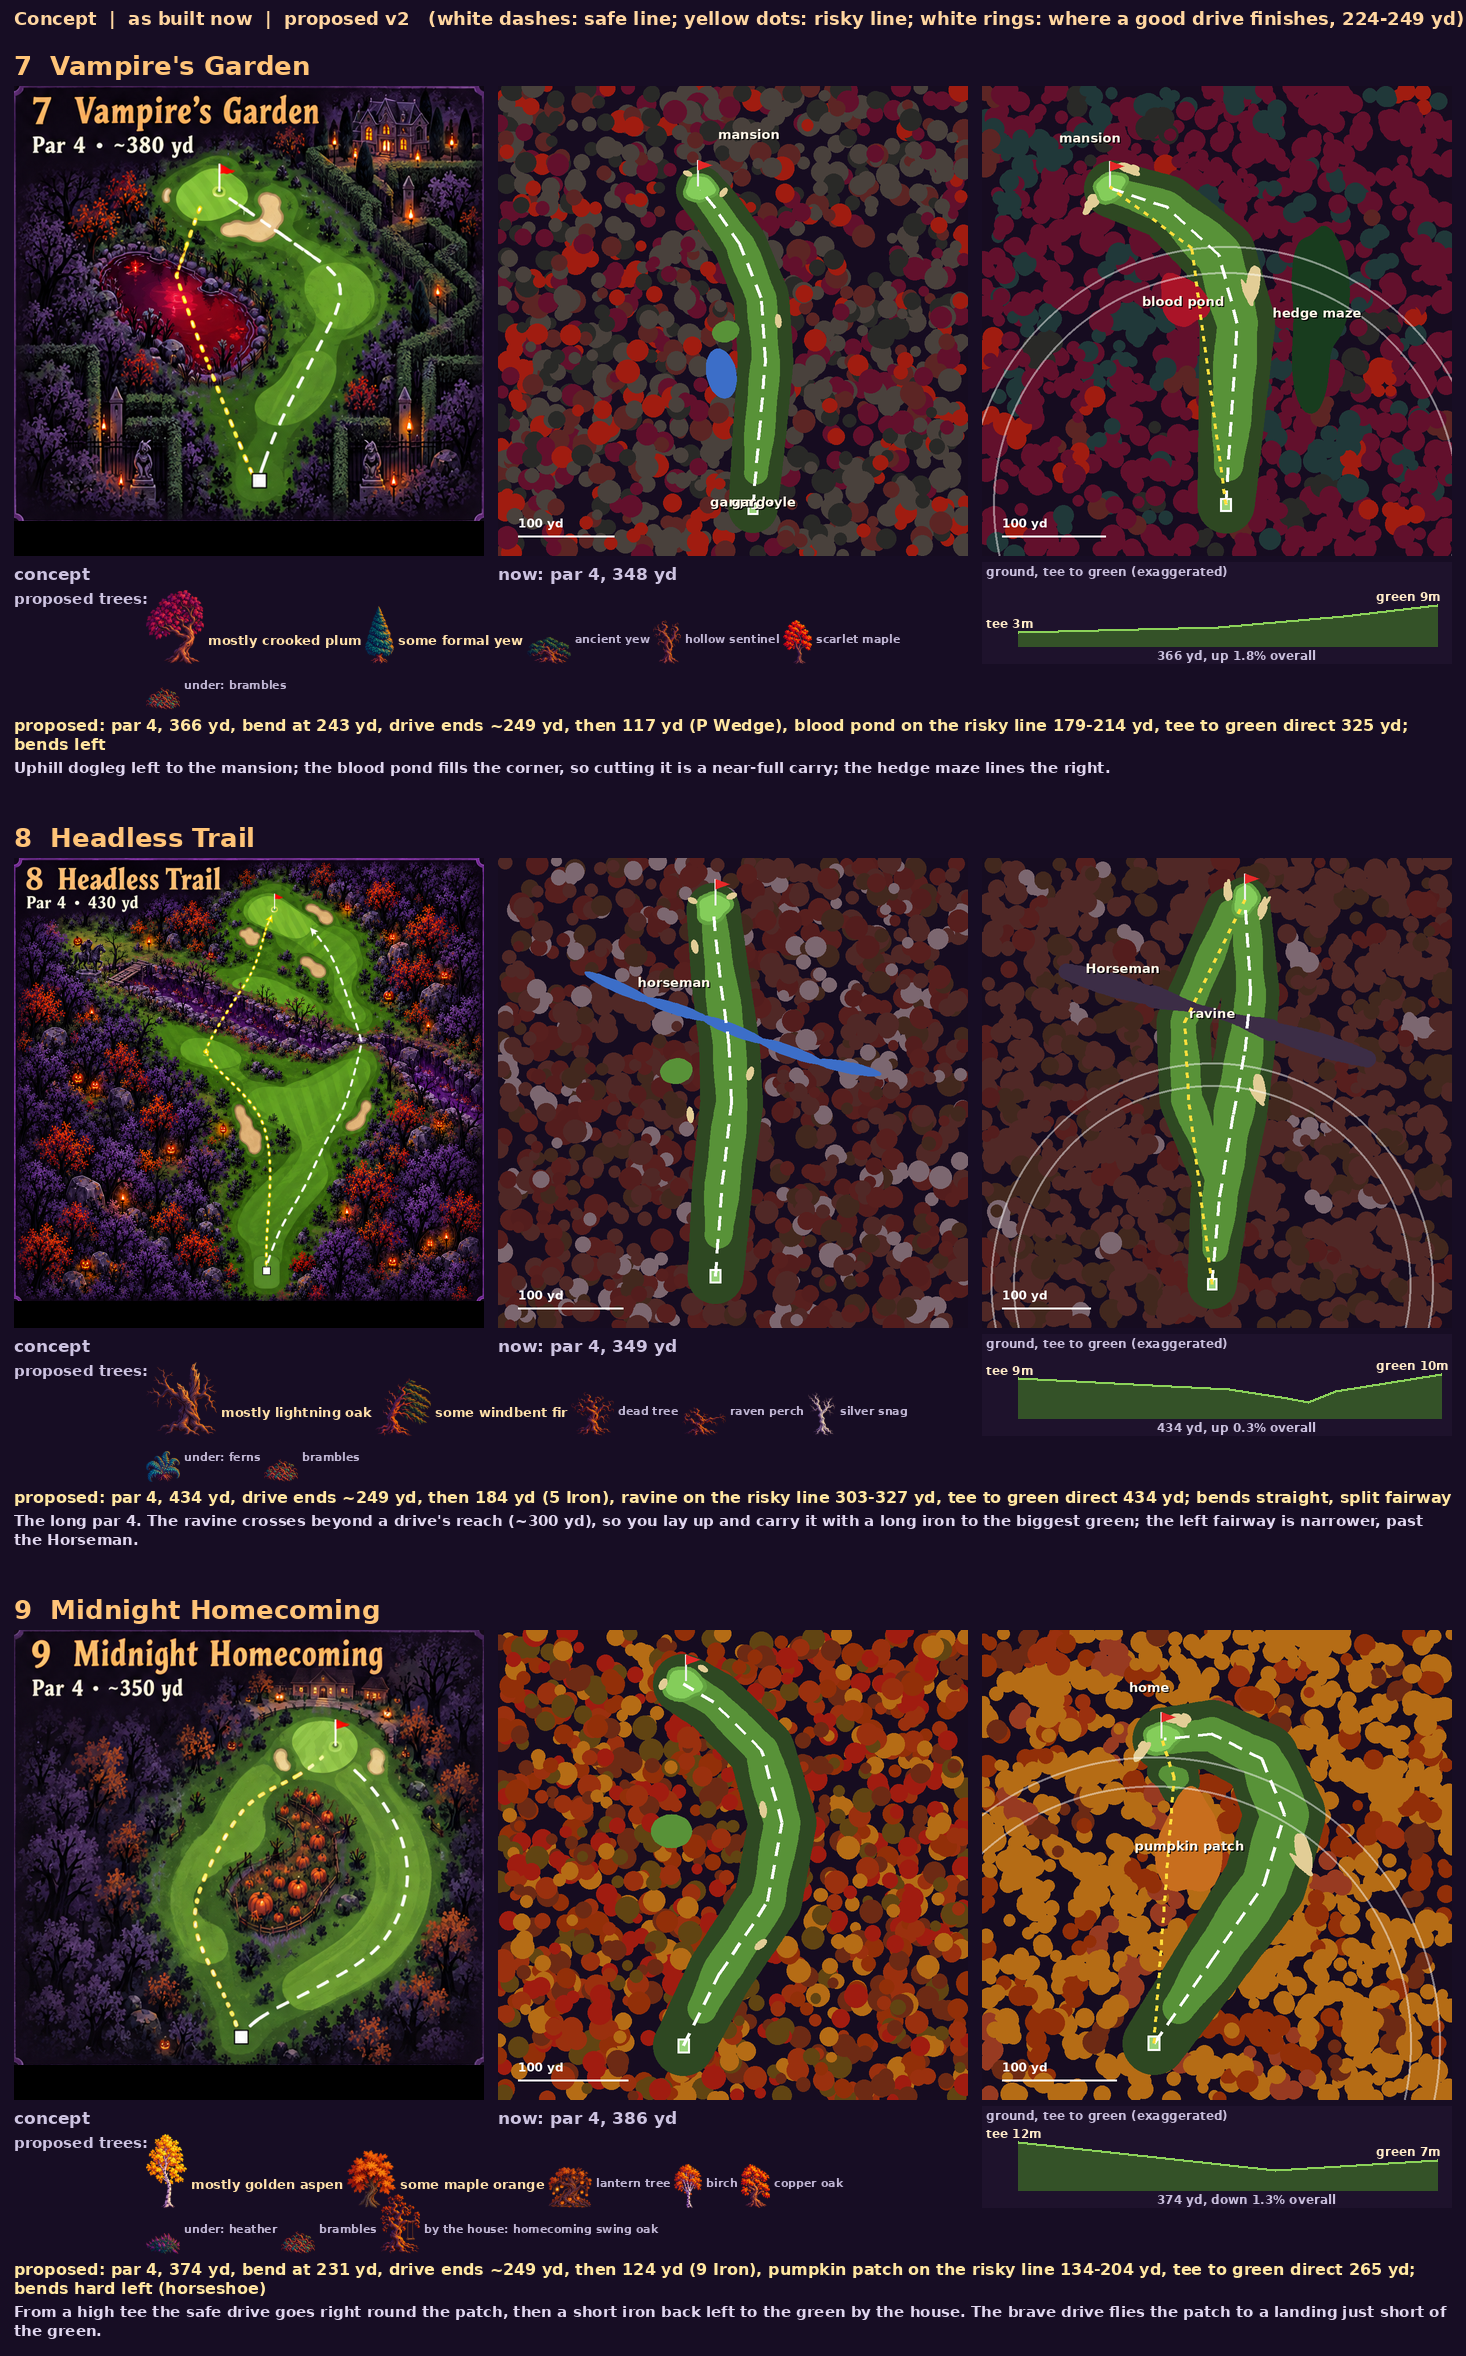
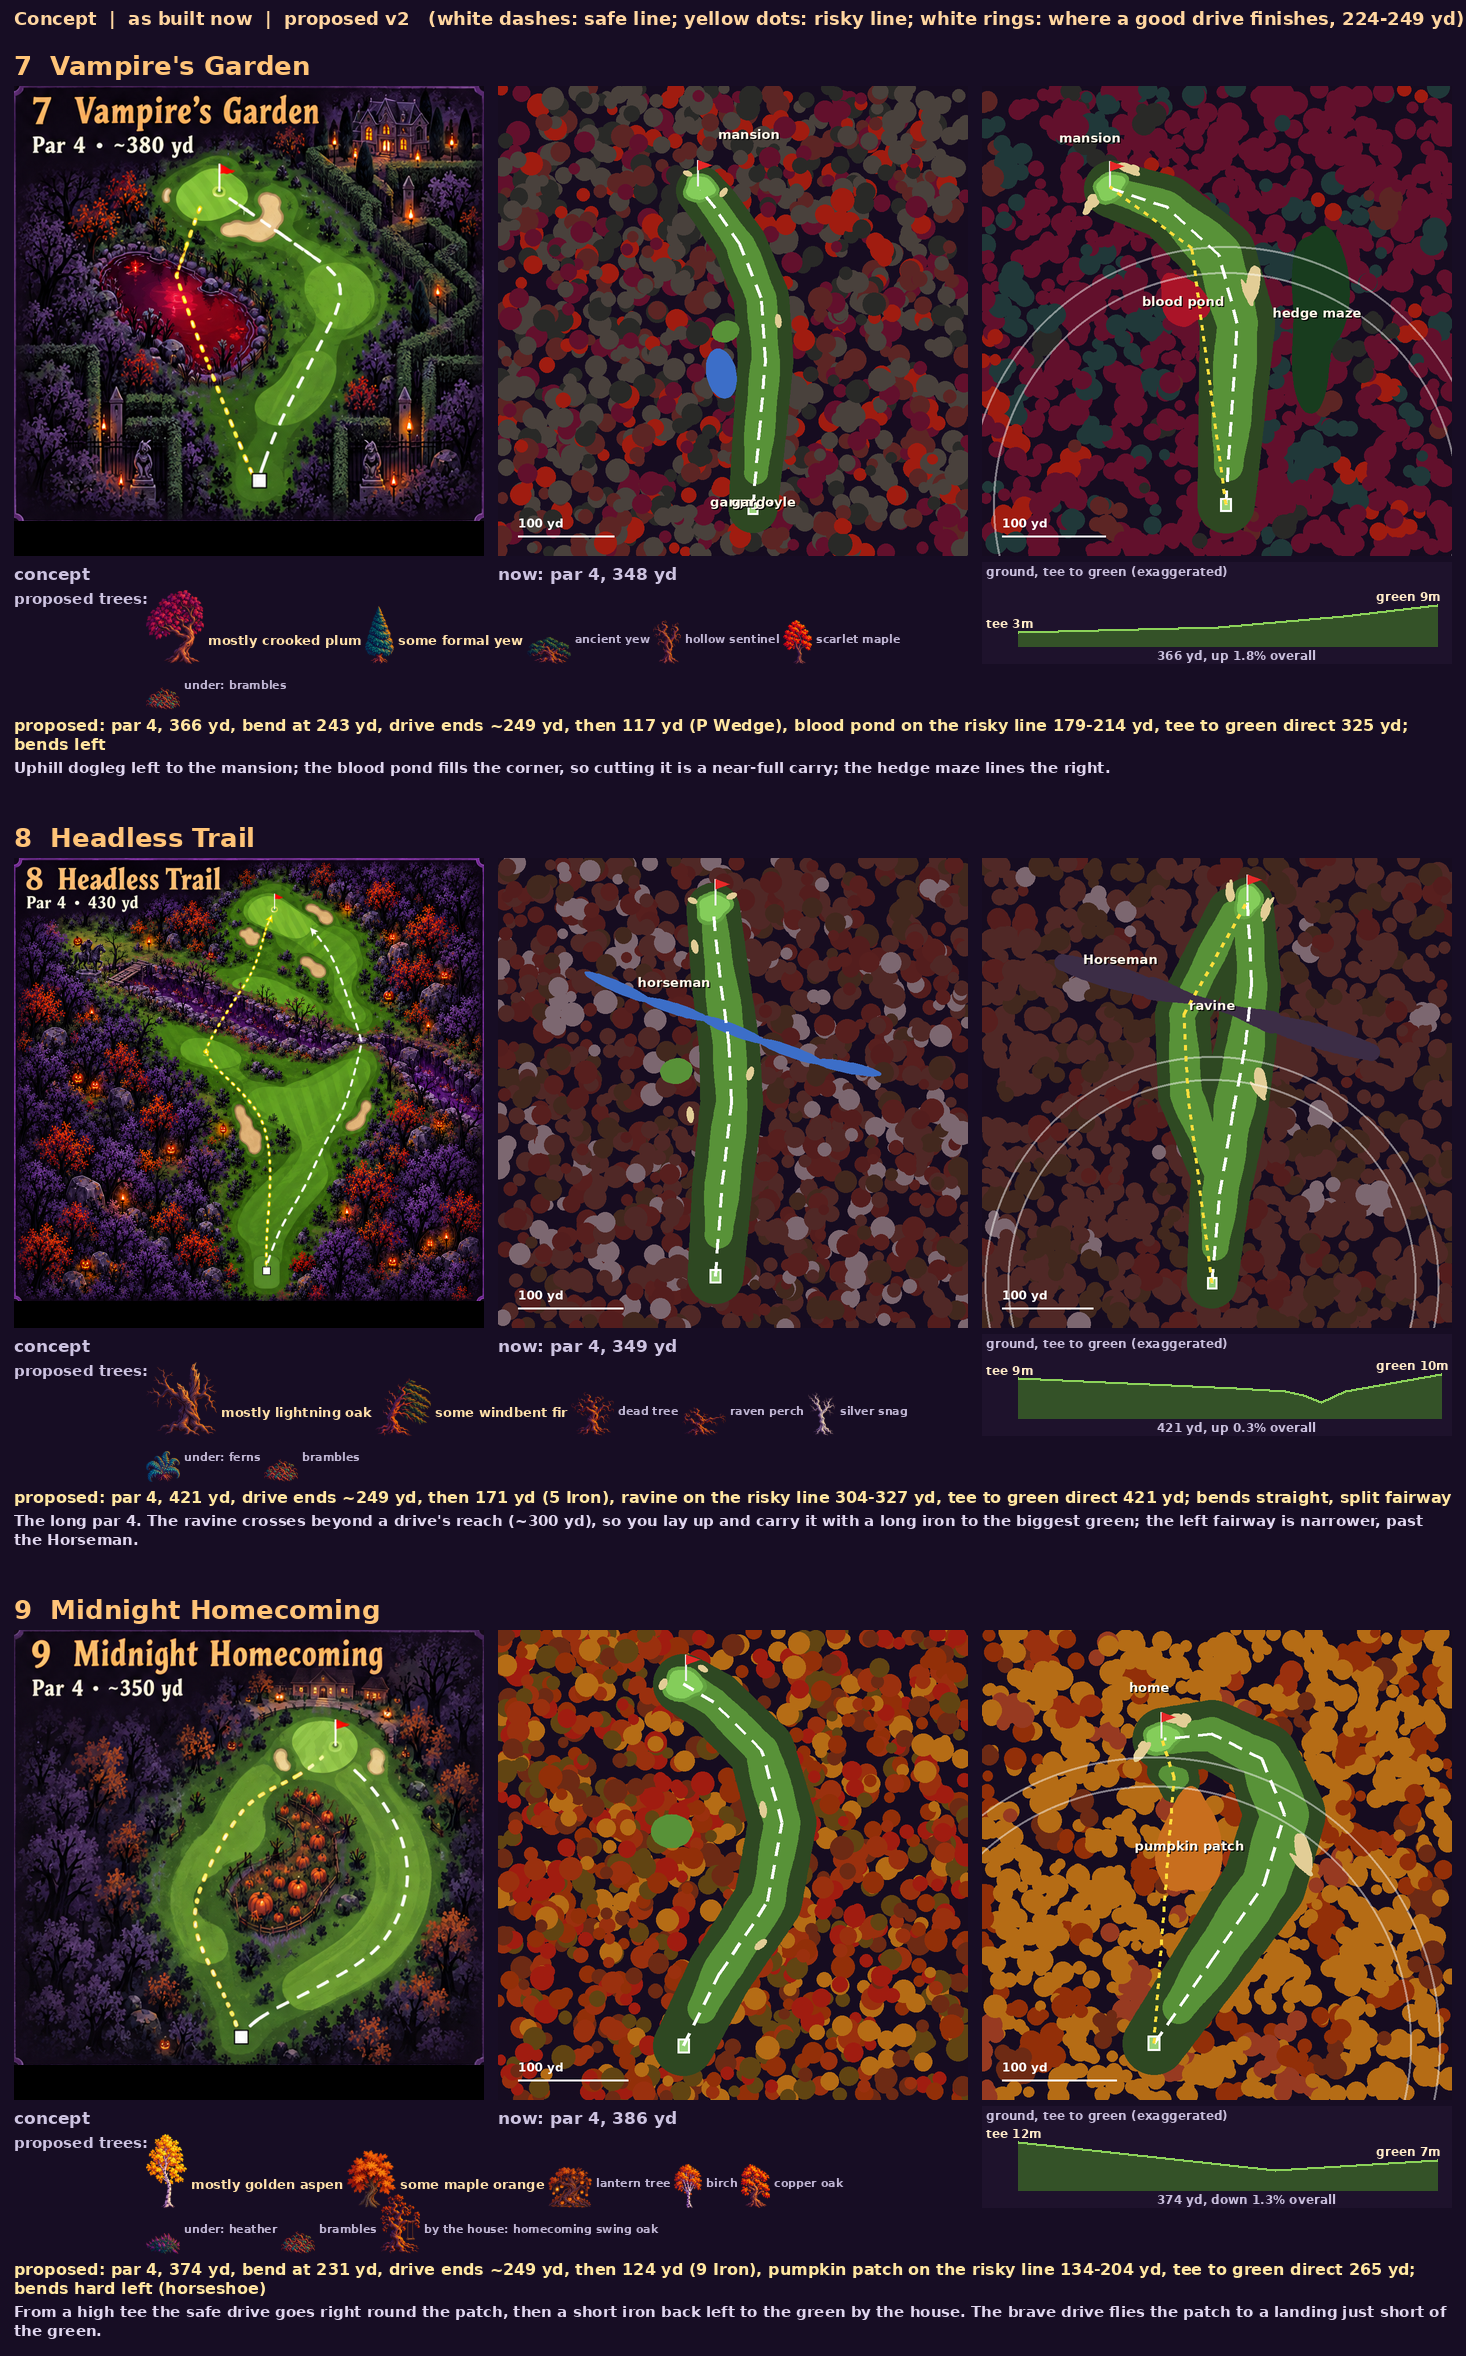
Hole plan v2: elevation checked on the builder's own ground
Hole 2's pool in the bottom of the hollow with the green 2 m above it; gentler landing areas on
holes 5 and 8; fairway stops at the ravine and the marsh; hole 8 trimmed to a 5-iron approach.
check_plan_ground.py runs the plan through hole_gen and reports plays-like, landing slopes, water
banks and fairway grades.

Claude-Session: https://claude.ai/code/session_01VAUjUguVX6tbdgmz3FqzWB

diff --git a/golf/tools/check_plan_ground.py b/golf/tools/check_plan_ground.py
@@ -1,0 +1,116 @@
+"""Run plan v2 through the hole builder's own ground (hole_gen.Hole) and measure what a golfer
+meets: plays-like for each shot (1 m of rise ~ 1 m more), the slope where drives land, the green
+against the water beside it, pond banks, fairway grades against the builder's limits."""
+import io, contextlib, math, sys, copy
+import numpy as np
+sys.path.append(__import__("os").path.dirname(__import__("os").path.abspath(__file__)))
+import hole_gen as HG
+
+
+def ravine(points, half_width=5.0, depth=4.2):
+    """As make_holes_4_9.ravine: one narrow water piece per segment of the line."""
+    out = []
+    for (x0, y0), (x1, y1) in zip(points, points[1:]):
+        dx, dy = x1 - x0, y1 - y0
+        ln = (dx * dx + dy * dy) ** 0.5
+        out.append({"center": [round((x0 + x1) / 2, 2), round((y0 + y1) / 2, 2)], "radius": [round(ln / 2 + 4.0, 2), half_width],
+                    "rotation": round(math.atan2(dy, dx), 4), "level_offset": -depth})
+    return out
+with contextlib.redirect_stdout(io.StringIO()):
+    import plan_holes2 as Q
+    import check_plan as C
+P, PLAN, YD = Q.P, Q.PLAN, Q.YD
+WATERY = {Q.POND, Q.PURPLE, Q.BLOOD}
+
+
+def spec_for(i, p):
+    water, zones = [], []
+    for h in p["hazards"]:
+        if "line" in h:
+            water += ravine(h["line"], half_width=h["width"] / 2 * (0.45 if h["color"] == Q.RAVINE else 1.0),
+                            depth=4.2 if h["color"] == Q.RAVINE else 0.6)
+            continue
+        zones.append({"center": h["center"], "radius": [r + 6 for r in h["radius"]], "rotation": h["rotation"], "surface": "deep_rough"})
+        if tuple(h["color"]) in WATERY:
+            water.append({"center": h["center"], "radius": h["radius"], "rotation": h["rotation"], "level_offset": -0.6})
+    return {"id": "p%d" % i, "name": "x", "number": i, "par": p["par"], "seed": 100 + i,
+            "path": p["path"], "fairway_width": p["widths"], "fairway_start": p["fairway_start"],
+            "rough_width": 13, "deep_rough_width": 14, "tee": {"center": p["path"][0], "size": [8, 10]},
+            "green": dict(p["green"], slope=[0.012, 0.016], **({"raise": p["green_raise"]} if "green_raise" in p else {})), "pin": p["green"]["center"],
+            "bunkers": [dict(b, depth=0.5) for b in p["bunkers"]], "water": water, "zones": zones,
+            "pads": [dict(q) for q in p.get("pads", [])],
+            "elevation": {"profile": p["elev"], "cross_tilt": 0.008, "roll_height": 0.35, "bank_height": 2.5,
+                          "undulation": 0.3}}
+
+
+def H(hole, x, y):
+    return float(hole.height(np.array([[x]], float), np.array([[y]], float))[0, 0])
+
+
+def B(hole, x, y):
+    return float(hole.base_height(np.array([[x]], float), np.array([[y]], float))[0, 0])
+
+
+def play(d, rise):
+    return "%d yd plays %d" % (d * YD, (d + rise) * YD)
+
+
+for i, p in PLAN.items():
+    sp = spec_for(i, copy.deepcopy(p))
+    with contextlib.redirect_stdout(io.StringIO()):
+        hole = HG.Hole(sp)
+    tee = p["path"][0]
+    g = p["green"]["center"]
+    zt, zg = H(hole, *tee), H(hole, *g)
+    out = ["\n%d %s par %d: tee %.1f m, green %.1f m" % (i, P.NAMES[i], p["par"], zt, zg)]
+    if p["par"] == 3:
+        d = math.dist(tee, g)
+        out.append("   tee shot %s (%s)" % (play(d, zg - zt), C.club_for(d + zg - zt)))
+    else:
+        land = C.along(p["path"], Q.DRIVE_CARRY)[0]
+        stop = C.along(p["path"], Q.DRIVE_END)[0]
+        zl, zs = H(hole, *land), H(hole, *stop)
+        out.append("   drive lands %.1f m (%+.1f m from the tee: carries %+d yd)" % (zl, zl - zt, -(zl - zt) * YD))
+        # slope of the landing area along the line and across it (stance)
+        a = C.along(p["path"], Q.DRIVE_CARRY - 10)[0]
+        b = C.along(p["path"], Q.DRIVE_END + 10)[0]
+        along = (H(hole, *b) - H(hole, *a)) / math.dist(a, b) * 100
+        t = np.subtract(b, a) / math.dist(a, b)
+        n = np.array([-t[1], t[0]])
+        c = np.add(stop, n * 8)
+        e = np.subtract(stop, n * 8)
+        across = (H(hole, *c) - H(hole, *e)) / 16 * 100
+        out.append("   landing area: %+.1f%% along (runs %s), %.1f%% across" % (along, "on" if along < 0 else "up, stops sooner", abs(across)))
+        d = math.dist(stop, g)
+        out.append("   approach %s (%s)" % (play(d, zg - zs), C.club_for(d + zg - zs)))
+        for pad in p.get("pads", []):
+            zp = H(hole, *pad["center"])
+            dp = math.dist(tee, pad["center"])
+            out.append("   brave drive to the pad: %s; then %s" % (play(dp, zp - zt), play(math.dist(pad["center"], g), zg - zp)))
+    for w in sp["water"]:
+        if w["level"] is None:
+            continue
+        a_ = np.linspace(0, math.tau, 48, endpoint=False)
+        rx, ry = w["radius"]
+        ca, sa = math.cos(w["rotation"]), math.sin(w["rotation"])
+        ex = w["center"][0] + 1.15 * (rx * np.cos(a_) * ca - ry * np.sin(a_) * sa)
+        ey = w["center"][1] + 1.15 * (rx * np.cos(a_) * sa + ry * np.sin(a_) * ca)
+        rim = hole.base_height(ex[None, :], ey[None, :])[0]
+        dg = math.dist(w["center"], g) - max(w["radius"])
+        out.append("   water at %.1f m: bank %.1f-%.1f m above it%s" % (w["level"], rim.min() - w["level"], rim.max() - w["level"],
+                   ("; green %.1f m above the water" % (zg - w["level"])) if dg < 30 else ""))
+    # fairway grades on the built ground (1 m grid), against the builder's limit (p95 <= 9%)
+    xs = np.arange(hole.x0, hole.x1, 1.0)
+    ys = np.arange(hole.y0, hole.y1, 1.0)
+    X, Y = np.meshgrid(xs, ys)
+    Z = hole.height(X, Y)
+    gy_, gx_ = np.gradient(Z, 1.0)
+    pct = np.hypot(gx_, gy_) * 100
+    lat, s = hole.lateral(X, Y)
+    fw = (np.abs(lat) < hole.half_width(s) - 1) & (s > p["fairway_start"]) & (np.hypot(X - g[0], Y - g[1]) > max(p['green']['radius']) + 10) & \
+         (np.hypot(X - tee[0], Y - tee[1]) > 15)
+    if "fairway_gap" in p:
+        fw &= ~((s > p["fairway_gap"][0]) & (s < p["fairway_gap"][1]))
+    out.append("   fairway grade p50 %.1f%%  p95 %.1f%%  max %.1f%%  (limit p95 9%%)" % (
+        np.percentile(pct[fw], 50), np.percentile(pct[fw], 95), pct[fw].max()))
+    print("\n".join(out))

diff --git a/golf/tools/plan_holes2.py b/golf/tools/plan_holes2.py
@@ -86,7 +86,7 @@ PLAN = {
         "hazards": [g([8, 90], [26, 17], -0.3, color=PURPLE, label="witch's pool")],
         "pads": [{"center": [42, 108], "radius": [12, 9], "rotation": 0.5}],
         "risk": [[0, 0], [18, 133]], "safe": [[0, 0], [42, 108], [24, 128]],
-        "elev": [[0, 11.0], [40, 9.0], [100, 4.0], [133, 3.5]],
+        "elev": [[0, 11.0], [40, 9.0], [85, 3.2], [118, 4.0], [133, 4.4]], "green_raise": 1.2,
         "note": "Downhill into the hollow (plays about 8 yd shorter): carry the pool to a wide, shallow green; "
                 "the apron right is the bail-out."},
     3: {"par": 5, "turn": "left (a long sweep round the graveyard)",
@@ -120,11 +120,11 @@ PLAN = {
                     g([158, 331], [6, 15], 0.1)],
         "hazards": [g([88, 330], [22, 46], -0.3, color=CORN, label="corn maze")],
         "features": [{"pos": [186, 458], "label": "barn"}],
-        "elev": [[0, 8.0], [100, 6.0], [240, 2.0], [360, 4.0], [462, 6.5]],
+        "elev": [[0, 8.0], [100, 6.2], [200, 4.6], [270, 3.2], [360, 4.0], [462, 6.5]],
         "note": "Three shots down the long diagonal through the farm: a bend at the drive, then the corn "
                 "maze all down the left of the second shot and the barn behind the green."},
     6: {"par": 3, "turn": "none (tee to green)",
-        "path": [[0, 0], [-18, 158]], "widths": [24, 24], "fairway_start": 138,
+        "path": [[0, 0], [-18, 158]], "widths": [24, 24], "fairway_start": 146, "green_raise": 1.0,
         "green": g([-18, 159], [10, 14], 0.1),
         "bunkers": [g([-36, 170], [10, 4], 0.6), g([2, 172], [9, 4], -0.5)],
         "hazards": [{"line": [[-120, 70], [-80, 104], [-40, 118], [-6, 124], [16, 134]], "width": 18,
@@ -147,16 +147,16 @@ PLAN = {
         "note": "Uphill dogleg left to the mansion; the blood pond fills the corner, so cutting it is a near-"
                 "full carry; the hedge maze lines the right."},
     8: {"par": 4, "turn": "straight, split fairway",
-        "path": [[0, 0], [8, 90], [22, 175], [34, 240], [40, 300], [34, 394]],
+        "path": [[0, 0], [8, 90], [22, 175], [34, 240], [40, 300], [36, 382]],
         "widths": [24, 34, 42, 34, 32, 24], "fairway_start": 36,
-        "extra_fairways": [[[[6, 110], [-26, 190], [-30, 270], [18, 384]], [28, 30, 28, 24]]],
-        "green": g([34, 396], [11, 15], -0.1),
-        "bunkers": [g([16, 404], [4, 10], 0.1), g([52, 388], [4, 10], -0.2), g([49, 202], [6, 15], 0.1)],
+        "extra_fairways": [[[[6, 110], [-26, 190], [-30, 270], [20, 372]], [28, 30, 28, 24]]],
+        "green": g([36, 384], [11, 15], -0.1),
+        "bunkers": [g([18, 392], [4, 10], 0.1), g([54, 376], [4, 10], -0.2), g([49, 202], [6, 15], 0.1)],
         "hazards": [{"line": [[-150, 322], [-60, 296], [0, 280], [60, 262], [160, 232]], "width": 22,
                      "color": RAVINE, "label": "ravine"}],
         "features": [{"pos": [-92, 326], "label": "Horseman"}],
-        "risk": [[0, 0], [-24, 190], [-28, 270], [34, 396]],
-        "elev": [[0, 9.0], [200, 6.5], [255, 4.5], [275, 3.5], [300, 6.0], [400, 10.0]],
+        "risk": [[0, 0], [-24, 190], [-28, 270], [36, 384]],
+        "elev": [[0, 9.0], [200, 6.7], [245, 6.1], [262, 5.2], [278, 3.5], [300, 6.0], [388, 10.0]], "fairway_gap": [258, 304],
         "note": "The long par 4. The ravine crosses beyond a drive's reach (~300 yd), so you lay up and carry it "
                 "with a long iron to the biggest green; the left fairway is narrower, past the Horseman."},
     9: {"par": 4, "turn": "hard left (horseshoe)",
